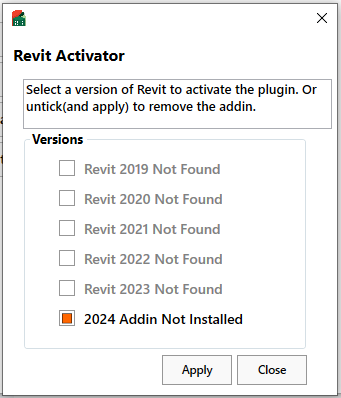
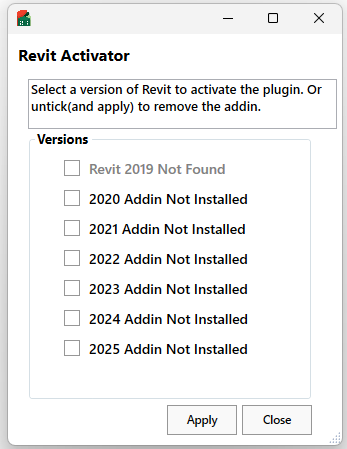
images updated for wiki

Changed region(s): [[0.0, 0.0, 1.0, 1.0], [0.7625, 0.0, 0.8211, 0.0603], [0.6452, 0.0302, 0.6745, 0.0603]]

diff --git a/CarboLifeUI/UI/RevitActivator.xaml b/CarboLifeUI/UI/RevitActivator.xaml
@@ -5,7 +5,7 @@
              xmlns:d="http://schemas.microsoft.com/expression/blend/2008" 
              xmlns:local="clr-namespace:CarboLifeUI.UI"
              mc:Ignorable="d" 
-             d:DesignWidth="350" MinWidth="350" Width="350" MinHeight="400" Height="400"  MaxHeight="400" MaxWidth="350" ResizeMode="NoResize" Loaded="Window_Loaded">
+             d:DesignWidth="350" MinWidth="350" Width="350" MinHeight="450" Height="450"  MaxHeight="600" MaxWidth="350" ResizeMode="CanResizeWithGrip" Loaded="Window_Loaded">
     <Window.Resources>
         <ResourceDictionary>
             <ResourceDictionary.MergedDictionaries>
